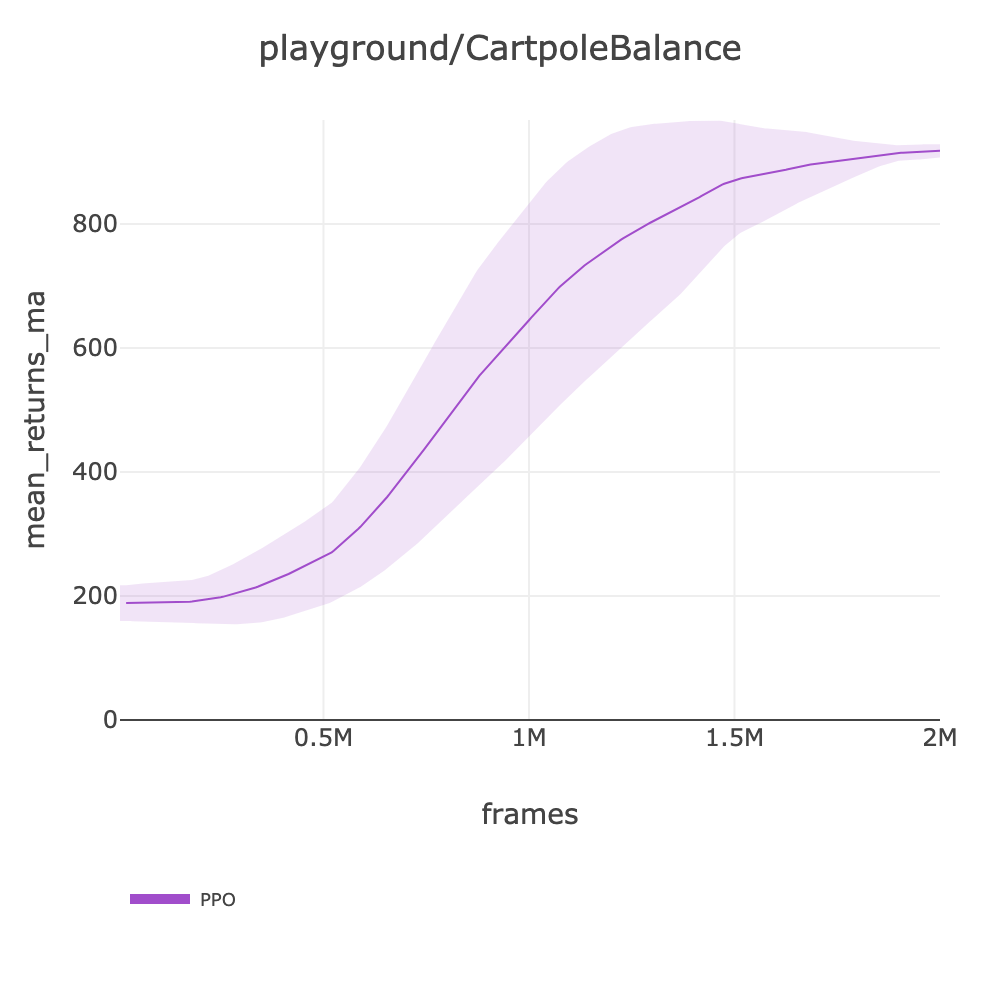
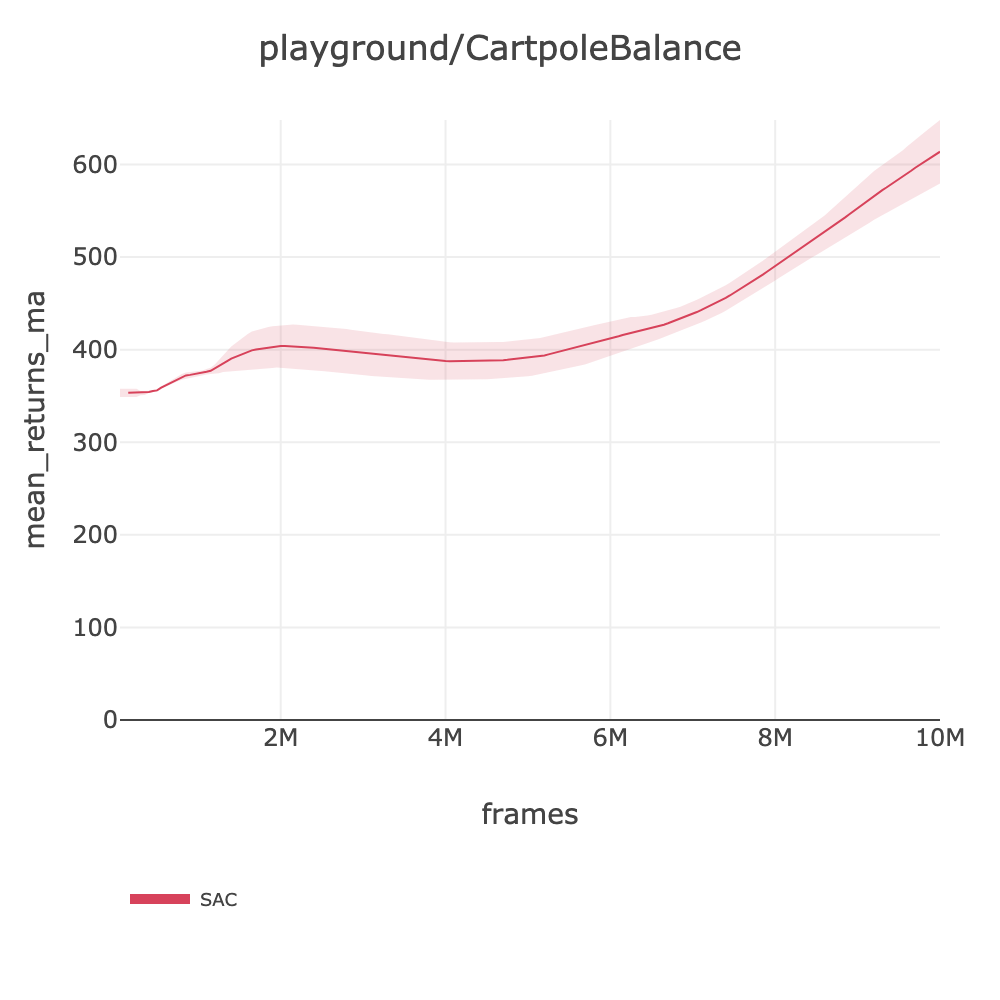
feat: Phase 5 CartpoleBalanceSparse PPO (504.59) + BallInCup SAC (158.88) + CartpoleBalance DR128 (613.83)

diff --git a/docs/BENCHMARKS.md b/docs/BENCHMARKS.md
@@ -789,11 +789,12 @@ source .env && slm-lab run-remote --gpu -s env=playground/CartpoleBalance -s max
 | Environment | PPO | SAC | D4PG Target | FPS | Frames | Wall Clock | HF Data |
 |-------------|-----|-----|-------------|-----|--------|------------|---------|
 | playground/CartpoleBalance | 918.12 | - | ~995 | ~2000 (PPO/256e) | 2M | ~0.3h | [ppo_playground_arc_cartpolebalance_2026_03_06_153756](https://huggingface.co/datasets/SLM-Lab/benchmark-dev/tree/main/data/ppo_playground_arc_cartpolebalance_2026_03_06_153756) |
+| playground/CartpoleBalance (DR128) | - | 613.83 | ~995 | ~3540 (SAC-DR128/128e) | 10M | ~0.8h | [sac_playground_arc_dr128_cartpolebalance_2026_03_06_181905](https://huggingface.co/datasets/SLM-Lab/benchmark-dev/tree/main/data/sac_playground_arc_dr128_cartpolebalance_2026_03_06_181905) |
 | playground/CheetahRun | 53.61 | 112.59 | ~839 | ~2000(PPO) / ~140(SAC) | 2M | ~0.3h / ~4h | [ppo](https://huggingface.co/datasets/SLM-Lab/benchmark-dev/tree/main/data/ppo_playground_arc_cheetahrun_2026_03_06_134309) [sac](https://huggingface.co/datasets/SLM-Lab/benchmark-dev/tree/main/data/sac_playground_arc_cheetahrun_2026_03_06_094013) |
 | playground/HumanoidWalk | - | - | ~281 | - | - | - | - |
 | playground/AcrobotSwingup | - | 3.46 | ~63 | ~140 (SAC/16e) | 2M | ~4h | [sac_playground_arc_fast_acrobotswingup_2026_03_06_111158](https://huggingface.co/datasets/SLM-Lab/benchmark-dev/tree/main/data/sac_playground_arc_fast_acrobotswingup_2026_03_06_111158) |
-| playground/BallInCup | - | - | ~944 | - | - | - | - |
-| playground/CartpoleBalanceSparse | - | - | ~992 | - | - | - | - |
+| playground/BallInCup | - | 158.88 | ~944 | ~344 (SAC-fast/64e) | 1M | ~0.8h | [sac_playground_arc_fast_ballincup_2026_03_06_181754](https://huggingface.co/datasets/SLM-Lab/benchmark-dev/tree/main/data/sac_playground_arc_fast_ballincup_2026_03_06_181754) |
+| playground/CartpoleBalanceSparse | 504.59 | - | ~992 | ~310 (PPO/256e) | 1M | ~0.9h | [ppo_playground_arc_cartpolebalancesparse_2026_03_06_181842](https://huggingface.co/datasets/SLM-Lab/benchmark-dev/tree/main/data/ppo_playground_arc_cartpolebalancesparse_2026_03_06_181842) |
 | playground/CartpoleSwingup | - | 371.40 | ~868 | ~60 (SAC-UTD1/4e) | 1M | ~4.6h | [sac_playground_arc_cartpoleswingup_2026_03_06_130653](https://huggingface.co/datasets/SLM-Lab/benchmark-dev/tree/main/data/sac_playground_arc_cartpoleswingup_2026_03_06_130653) |
 | playground/CartpoleSwingupSparse | - | - | ~630 | - | - | - | - |
 | playground/CheetahRunBackwards | - | - | ~600 | - | - | - | - |
